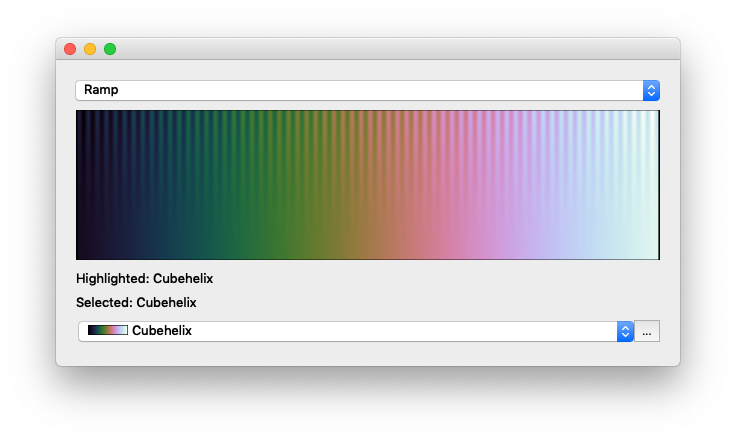
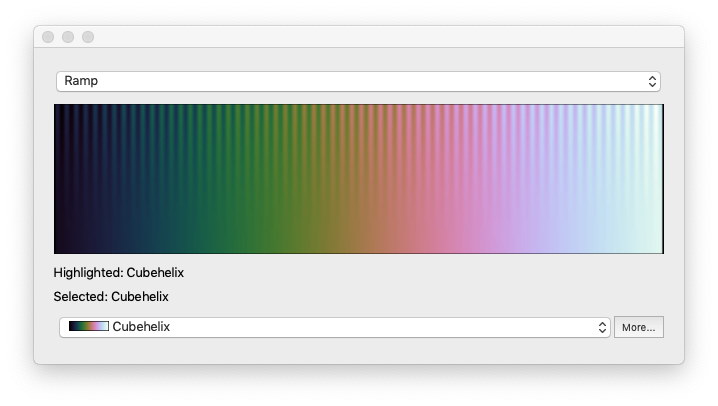
Updated readme.md.
Improved some text and updated screen shots

Changed region(s): [[0.0306, 0.0591, 0.9499, 0.9163], [0.9192, 0.0887, 0.9499, 0.1182]]

diff --git a/README.md b/README.md
@@ -18,44 +18,43 @@ CmLib currently includes color maps from the following four catalogs:
 * [MatPlotLib](https://matplotlib.org/tutorials/colors/colormaps.html)
 * [Scientific Colour Maps](http://www.fabiocrameri.ch/colourmaps.php)
 
-Every catalog has a `_catalog.json` file with metadata about that catalog. For every color map has a CSV file with floating point RGB values, and a JSON file with metadata about that color map.
+Every catalog has a `_catalog.json` file with metadata about that catalog. Every color map has a CSV file with floating point RGB values (between 0 and 1), and a JSON file with metadata about that color map.
 
 ### License
 
-CmLib itself is released under the BSD license. Note that the color map catalogs itself may have different licenses. See the `_catalog.json` files for the license of a particular catalog. 
+CmLib itself is released under the BSD license. Note that the color map catalogs itself may have different licenses. See the `_catalog.json` file for the license of a particular catalog. 
 
 ### Installing CmLib
 
-If you just want to use the color map data in your project clone or download this repository from Github and copy the `cmlib/cmlib/data` directory. Please leave the `readme.txt` intact. 
+If you only want to use the color map data in your project, just clone or download this repository from Github and copy the `cmlib/cmlib/data` directory. Please leave the `readme.txt` intact. 
 
-The selection drop downbox and the catalog viewer require 
-[PyQt5](https://www.riverbankcomputing.com/software/pyqt/intro) and 
-[Numpy](http://www.numpy.org). You can do them with pip, provided you have at least Python 3.5.
+If you want to use the selection drop downbox and the catalog viewer you must have [Python](https://www.python.org/) installed. They require [PyQt5](https://www.riverbankcomputing.com/software/pyqt/intro) and 
+[Numpy](http://www.numpy.org). You can install these with pip, provided you have at least Python 3.5.
 
     %> pip install PyQt5
     %> pip install numpy
     %> pip install cmlib
 
-After that you should be able to start the demo with
+After that you should be able to start the demo with:
 
     %> cmlib_demo
 
 ### Running the Demo
 
-After starting the `cmlib_demo` program the following window will appear.
+After starting the `cmlib_demo` program the following window will appear:
 
 ![demo](screen_shots/demo.png)
 
-The drop down box at the top allows you to select one of seven test images. You can read more about them in [this blog post](http://inversed.ru/Blog_2.htm#Testing), which refers to the [Good Colour Maps: How to Design Them](https://arxiv.org/abs/1509.03700) article by Peter Kovesi. 
+The drop down box at the top allows you to select one of seven test images. You can read more about them in [this blog post](http://inversed.ru/Blog_2.htm#Testing) by Peter Karpov, which, in turn, was inspired by the [Good Colour Maps: How to Design Them](https://arxiv.org/abs/1509.03700) article by Peter Kovesi. 
 
-The drop down box at the bottom gives a selection of a few color maps. If you select one, the test image will be colorized with the selected map. It only contains a small selection of (user favorite) color maps. To access the complete database click on the button with the three dots next to the drop down box. This will open the Viewer dialog window, which is shown in the screen shot at the top of this page.
+The drop down box at the bottom gives a selection of a few color maps. If you select one, the test image will be colorized with the selected map. It only contains a small selection of user-favorite color maps. To access the complete database click on the `More...`button. This will open the _Viewer_ dialog window that is shown in the screen shot at the top of this page.
 
-The Viewer has a table that lists all the color maps in the database. The test image will be colorized immediately when you select a color map in the table. If you double click a color map (or click the `Ok` button) the Viewer will close the viewer window. Clicking `Cancel` will also close the Viewer and will reset the test image to the color map that was current at the moment the viewer was opened.
+The Viewer contains a table that lists all the color maps in the database. The test image will be colorized immediately when you select a color map in the table. If you double click a color map (or click the `Ok` button) the Viewer will close the viewer window. Clicking `Cancel` will also close the Viewer and will reset the test image to the color map that was selected at the moment the viewer was opened.
 
-By checking the check box in the left most color of the table, you can add color maps to your favorites. These are added to the drop down box in the demo window. Note that the favorites are note remembered by the demo program. Programs that use CmLib are responsible for storing the favirotes between sessions.
+By checking the check box in the left most column of the table (★), you can add color maps to your favorites. These are added to the drop down box in the demo window. Note that the favorites are not remembered by the demo program. Programs that use CmLib are responsible for storing the favirotes between sessions.
 
 You can sort the table by clicking one of the column headers in the table. By right-clicking on the table header you can add or remove table columns.
 
-Located on the left side of the Viewer are groups of check boxes that allow you to show/hide color maps in the table. These filters let you only view a subset of the color maps and so make it easier to browse the collection and make a choice.
+Located on the left side of the Viewer are drop-down and checkboxes that allow you to show/hide color maps in the table. These filters let you only view a subset of the color maps and so make it easier to browse the collection and make a choice.
 
 
